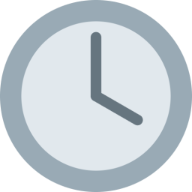
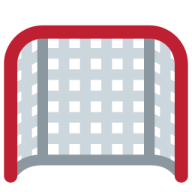
Add files via upload
Úprava vyplňování Týmu A a Týmu B přes virtuální klávesnici. Změna loga - ikon a favicon. Odstranění vyskakování mobil lišty se třemi navigačními tlačítky.

diff --git a/style.css b/style.css
@@ -2,17 +2,22 @@
   box-sizing: border-box;
 }
 
+html, body {
+  background: #111;
+  margin: 0;
+  padding: 0;
+  width: 100%;
+  height: 100%;
+  overflow: hidden; /* Odstraní jakékoliv nechtěné pruhy a posuvníky */
+}
+
 body {
   font-family: Arial, sans-serif;
   text-align: center;
-  margin: 0;
   padding: 5px;
-  background: #111;
   color: white;
-  height: 100vh;
   display: flex;
   flex-direction: column;
-  overflow: hidden; /* Zabrání rolování na mobilu */
 }
 
 h1 {
@@ -45,7 +50,6 @@ button {
 .minus { background: #e74c3c; }
 .reset { background: #555; }
 
-/* HLAVNÍ LAYOUT - roztažení na celou zbývající obrazovku */
 .stadium {
   display: flex;
   flex-direction: row;
@@ -57,12 +61,11 @@ button {
   height: calc(100vh - 70px);
 }
 
-/* TÝMY */
 .team {
   background: #1e1e1e;
   padding: 10px;
   border-radius: 12px;
-  flex: 2; /* Týmy budou širší než časovač */
+  flex: 2;
   display: flex;
   align-items: center;
   justify-content: space-between;
@@ -78,17 +81,23 @@ button {
   height: 100%;
 }
 
-/* Úprava políček pro jména týmů */
+/* Úprava políček */
 input[type="text"], input#teamAName, input#teamBName {
   width: 100%;
   padding: 10px;
-  font-size: 48px;
+  font-size: 22px;
   font-weight: bold;
   text-align: center;
-  background: #111; /* Tmavé pozadí */
-  color: #fff;       /* Bílé písmo */
+  background: #111;
+  color: #fff;
   border: 2px solid #333;
   border-radius: 8px;
+}
+
+/* Styl pro šedivý text nápovědy (placeholder) */
+input::placeholder {
+  color: #666;
+  font-weight: normal;
 }
 
 input:focus {
@@ -97,13 +106,12 @@ input:focus {
 }
 
 .score {
-  font-size: 22vh; /* Velikost skóre se přizpůsobí výšce displeje */
+  font-size: 22vh;
   font-weight: bold;
   line-height: 1;
   margin-top: 5px;
 }
 
-/* OVLÁDÁNÍ SKÓRE */
 .controls {
   display: flex;
   flex-direction: column;
@@ -115,19 +123,18 @@ input:focus {
 .btn-large {
   font-size: 32px;
   padding: 25px 20px;
-  flex-grow: 2; /* Plus je výrazně větší než mínus */
+  flex-grow: 2;
 }
 
 .controls .minus {
   padding: 10px 20px;
 }
 
-/* ČASOVAČ UPROSTŘED */
 .timer {
   background: #252525;
   padding: 10px;
   border-radius: 12px;
-  flex: 1.2; /* Užší blok pro čas */
+  flex: 1.2;
   display: flex;
   flex-direction: column;
   justify-content: center;
@@ -147,11 +154,11 @@ input:focus {
 }
 
 #timeDisplay {
-  font-size: 8vh; /* Přizpůsobí se výšce displeje */
+  font-size: 8vh;
   font-weight: bold;
   font-family: monospace;
   margin: 5px 0;
-  color: #f1c40f; /* Žlutý retro čas jako na stadionech */
+  color: #f1c40f;
 }
 
 .timer-controls {

diff --git a/index.html b/index.html
@@ -2,8 +2,8 @@
 <html lang="cs">
 <head>
   <meta charset="UTF-8" />
-  <meta name="viewport" content="width=device-width, initial-scale=1.0, maximum-scale=1.0, user-scalable=no"/>
-  <title>🏟️ Stadion Skóre</title>
+  <meta name="viewport" content="width=device-width, initial-scale=1.0, maximum-scale=1.0, user-scalable=no, viewport-fit=cover"/>
+  <title>Stadion Skóre</title>
   <link rel="icon" href="favicon.ico" type="image/x-icon">
   <link rel="manifest" href="manifest.json">
   <link rel="stylesheet" href="style.css">
@@ -13,7 +13,7 @@
 
 <div class="top-bar">
   <button class="btn" onclick="toggleFullscreen()">⛶ Fullscreen</button>
-  <h1>🏟️ Stadion Skóre</h1>
+  <h1>Stadion Skóre</h1>
   <button class="reset" onclick="resetAll()">RESET</button>
 </div>
 
@@ -25,13 +25,13 @@
       <button class="minus" onclick="changeScore('A', -1)">-</button>
     </div>
     <div class="team-content">
-      <input id="teamAName" value="Tým A">
+      <input type="text" id="teamAName" placeholder="Tým A" onkeydown="if(event.key === 'Enter') this.blur();">
       <div class="score" id="scoreA">0</div>
     </div>
   </div>
 
   <div class="timer">
-    <input type="number" id="minutesInput" min="1" placeholder="Minuty" oninput="if(this.value < 1) this.value = '';">
+    <input type="number" id="minutesInput" min="1" placeholder="Minuty" oninput="if(this.value < 1) this.value = '';" onkeydown="if(event.key === 'Enter') this.blur();">
     <div id="timeDisplay">00:00</div>
     <div class="timer-controls">
       <button class="plus" onclick="startTimer()">Start</button>
@@ -41,7 +41,7 @@
 
   <div class="team team-b">
     <div class="team-content">
-      <input id="teamBName" value="Tým B">
+      <input type="text" id="teamBName" placeholder="Tým B" onkeydown="if(event.key === 'Enter') this.blur();">
       <div class="score" id="scoreB">0</div>
     </div>
     <div class="controls">

diff --git a/script.js b/script.js
@@ -9,7 +9,7 @@ let running = false;
 // WAKE LOCK
 let wakeLock = null;
 
-// Globální proměnná pro sdílené audio
+// Globální audio
 let audioCtx = null;
 
 function getAudioContext() {
@@ -129,8 +129,9 @@ function startTimer() {
   if (!running) {
     enableWakeLock();
 
+    // Sjednocené volání celoobrazovkového režimu
     if (!document.fullscreenElement) {
-      document.documentElement.requestFullscreen().catch(err => {});
+      document.documentElement.requestFullscreen({ navigationUI: "hide" }).catch(err => {});
     }
 
     if (remainingSeconds === 0) {
@@ -163,10 +164,10 @@ function resetAll() {
   document.getElementById("minutesInput").value = "";
 }
 
-// FULLSCREEN
+// FULLSCREEN - Opraveno pro skrytí navigační lišty
 function toggleFullscreen() {
   if (!document.fullscreenElement) {
-    document.documentElement.requestFullscreen().catch(err => {});
+    document.documentElement.requestFullscreen({ navigationUI: "hide" }).catch(err => {});
   } else {
     document.exitFullscreen();
   }